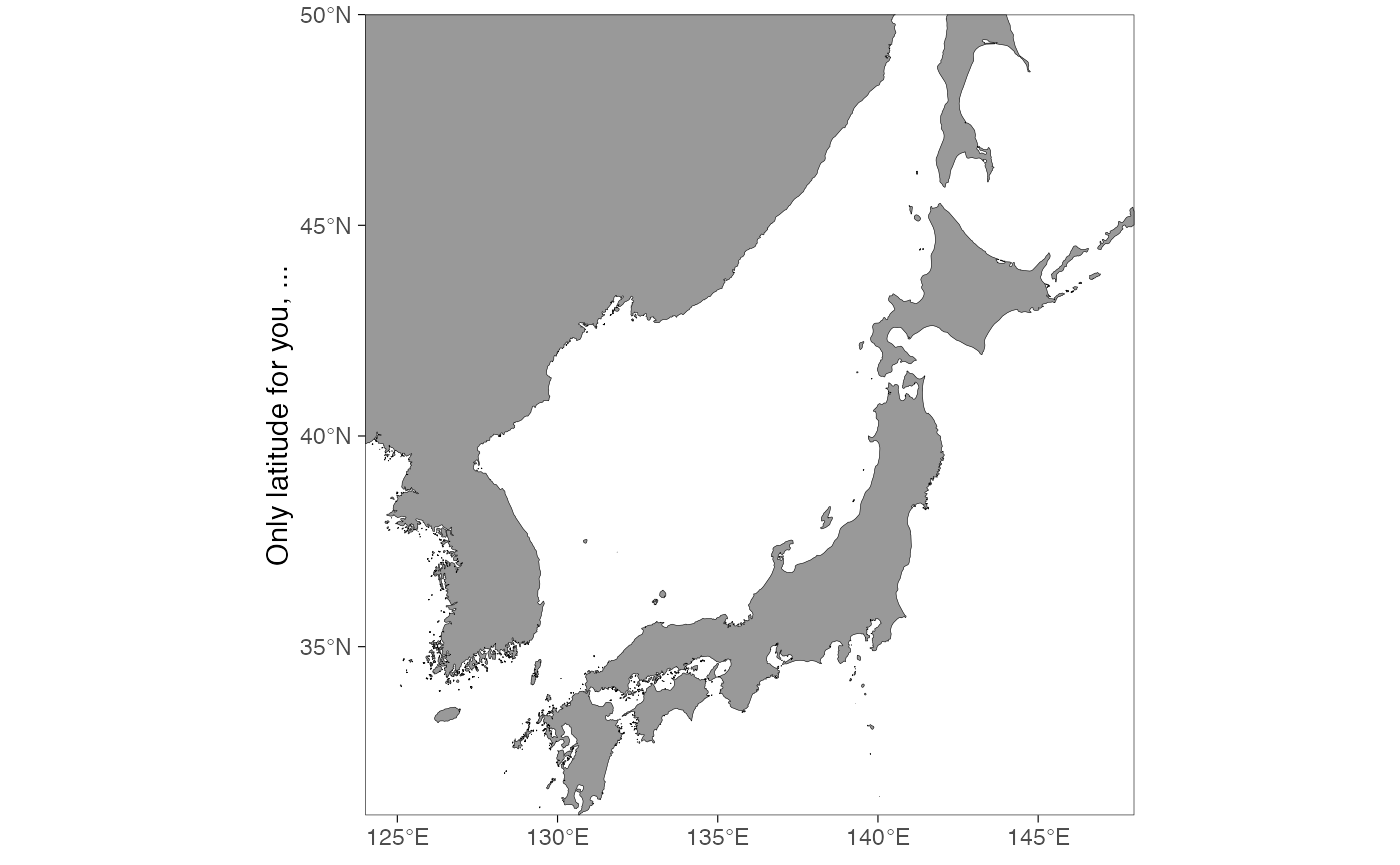
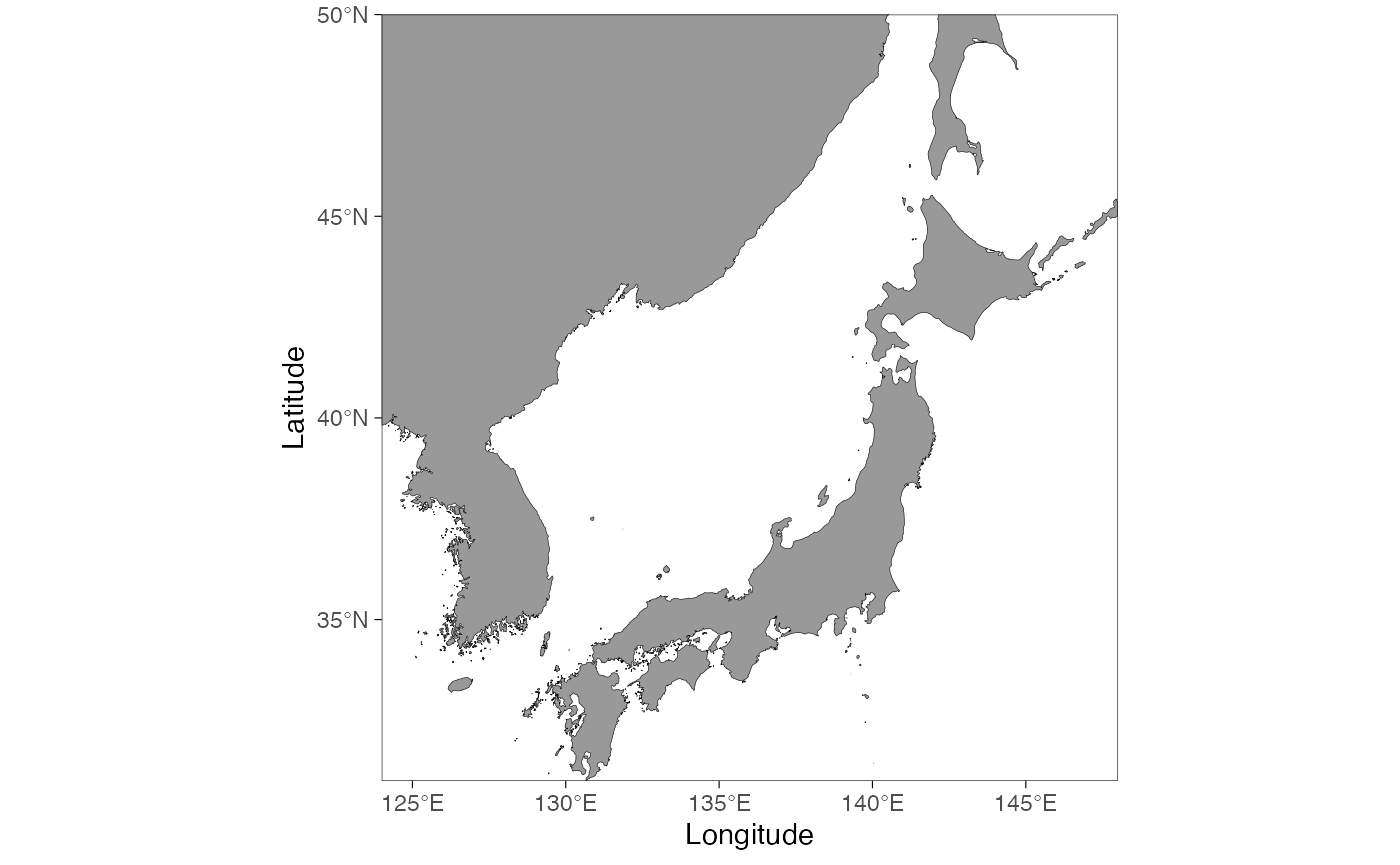
Update axis-label examples for the labels-off-by-default behaviour
Maps no longer draw x/y axis titles by default, so the old "Rename axis
labels" / "Remove axis labels" examples were stale.

- basemap() examples: replace them with an "Add axis labels" example
  (`+ labs(y = "Latitude", x = "Longitude")`); keep the last example but
  retitle it "Remove axis text" (it blanks axis text + ticks).
- ggOceanMaps.Rmd: change the Graphical-parameters example from removing
  an already-absent x label to adding both axis titles.
- NEWS: note that axis titles are off by default and how to add them.
- Regenerate man/basemap.Rd and rebuild the site.

diff --git a/docs/reference/shapefile_list.html b/docs/reference/shapefile_list.html
@@ -107,23 +107,23 @@
 <span class="r-out co"><span class="r-pr">#&gt;</span> 4               Svalbard</span>
 <span class="r-out co"><span class="r-pr">#&gt;</span> 5                 Europe</span>
 <span class="r-out co"><span class="r-pr">#&gt;</span>                                                                          land</span>
-<span class="r-out co"><span class="r-pr">#&gt;</span> 1    /var/folders/9j/t7m30trx0s33zy79x20y3wyh0000gn/T//RtmpyzOGbt/arctic_land</span>
-<span class="r-out co"><span class="r-pr">#&gt;</span> 2 /var/folders/9j/t7m30trx0s33zy79x20y3wyh0000gn/T//RtmpyzOGbt/antarctic_land</span>
+<span class="r-out co"><span class="r-pr">#&gt;</span> 1    /var/folders/9j/t7m30trx0s33zy79x20y3wyh0000gn/T//RtmppcDrFF/arctic_land</span>
+<span class="r-out co"><span class="r-pr">#&gt;</span> 2 /var/folders/9j/t7m30trx0s33zy79x20y3wyh0000gn/T//RtmppcDrFF/antarctic_land</span>
 <span class="r-out co"><span class="r-pr">#&gt;</span> 3                                                                     dd_land</span>
-<span class="r-out co"><span class="r-pr">#&gt;</span> 4  /var/folders/9j/t7m30trx0s33zy79x20y3wyh0000gn/T//RtmpyzOGbt/svalbard_land</span>
-<span class="r-out co"><span class="r-pr">#&gt;</span> 5    /var/folders/9j/t7m30trx0s33zy79x20y3wyh0000gn/T//RtmpyzOGbt/europe_land</span>
+<span class="r-out co"><span class="r-pr">#&gt;</span> 4  /var/folders/9j/t7m30trx0s33zy79x20y3wyh0000gn/T//RtmppcDrFF/svalbard_land</span>
+<span class="r-out co"><span class="r-pr">#&gt;</span> 5    /var/folders/9j/t7m30trx0s33zy79x20y3wyh0000gn/T//RtmppcDrFF/europe_land</span>
 <span class="r-out co"><span class="r-pr">#&gt;</span>                                                                          glacier</span>
-<span class="r-out co"><span class="r-pr">#&gt;</span> 1    /var/folders/9j/t7m30trx0s33zy79x20y3wyh0000gn/T//RtmpyzOGbt/arctic_glacier</span>
-<span class="r-out co"><span class="r-pr">#&gt;</span> 2 /var/folders/9j/t7m30trx0s33zy79x20y3wyh0000gn/T//RtmpyzOGbt/antarctic_glacier</span>
-<span class="r-out co"><span class="r-pr">#&gt;</span> 3        /var/folders/9j/t7m30trx0s33zy79x20y3wyh0000gn/T//RtmpyzOGbt/dd_glacier</span>
-<span class="r-out co"><span class="r-pr">#&gt;</span> 4  /var/folders/9j/t7m30trx0s33zy79x20y3wyh0000gn/T//RtmpyzOGbt/svalbard_glacier</span>
+<span class="r-out co"><span class="r-pr">#&gt;</span> 1    /var/folders/9j/t7m30trx0s33zy79x20y3wyh0000gn/T//RtmppcDrFF/arctic_glacier</span>
+<span class="r-out co"><span class="r-pr">#&gt;</span> 2 /var/folders/9j/t7m30trx0s33zy79x20y3wyh0000gn/T//RtmppcDrFF/antarctic_glacier</span>
+<span class="r-out co"><span class="r-pr">#&gt;</span> 3        /var/folders/9j/t7m30trx0s33zy79x20y3wyh0000gn/T//RtmppcDrFF/dd_glacier</span>
+<span class="r-out co"><span class="r-pr">#&gt;</span> 4  /var/folders/9j/t7m30trx0s33zy79x20y3wyh0000gn/T//RtmppcDrFF/svalbard_glacier</span>
 <span class="r-out co"><span class="r-pr">#&gt;</span> 5                                                                           &lt;NA&gt;</span>
 <span class="r-out co"><span class="r-pr">#&gt;</span>                                                                                                                                                                bathy</span>
-<span class="r-out co"><span class="r-pr">#&gt;</span> 1    dd_rbathy|/var/folders/9j/t7m30trx0s33zy79x20y3wyh0000gn/T//RtmpyzOGbt/dd_rbathy_cont|/var/folders/9j/t7m30trx0s33zy79x20y3wyh0000gn/T//RtmpyzOGbt/arctic_bathy</span>
-<span class="r-out co"><span class="r-pr">#&gt;</span> 2 dd_rbathy|/var/folders/9j/t7m30trx0s33zy79x20y3wyh0000gn/T//RtmpyzOGbt/dd_rbathy_cont|/var/folders/9j/t7m30trx0s33zy79x20y3wyh0000gn/T//RtmpyzOGbt/antarctic_bathy</span>
-<span class="r-out co"><span class="r-pr">#&gt;</span> 3        dd_rbathy|/var/folders/9j/t7m30trx0s33zy79x20y3wyh0000gn/T//RtmpyzOGbt/dd_rbathy_cont|/var/folders/9j/t7m30trx0s33zy79x20y3wyh0000gn/T//RtmpyzOGbt/dd_bathy</span>
-<span class="r-out co"><span class="r-pr">#&gt;</span> 4  dd_rbathy|/var/folders/9j/t7m30trx0s33zy79x20y3wyh0000gn/T//RtmpyzOGbt/dd_rbathy_cont|/var/folders/9j/t7m30trx0s33zy79x20y3wyh0000gn/T//RtmpyzOGbt/svalbard_bathy</span>
-<span class="r-out co"><span class="r-pr">#&gt;</span> 5        dd_rbathy|/var/folders/9j/t7m30trx0s33zy79x20y3wyh0000gn/T//RtmpyzOGbt/dd_rbathy_cont|/var/folders/9j/t7m30trx0s33zy79x20y3wyh0000gn/T//RtmpyzOGbt/dd_bathy</span>
+<span class="r-out co"><span class="r-pr">#&gt;</span> 1    dd_rbathy|/var/folders/9j/t7m30trx0s33zy79x20y3wyh0000gn/T//RtmppcDrFF/dd_rbathy_cont|/var/folders/9j/t7m30trx0s33zy79x20y3wyh0000gn/T//RtmppcDrFF/arctic_bathy</span>
+<span class="r-out co"><span class="r-pr">#&gt;</span> 2 dd_rbathy|/var/folders/9j/t7m30trx0s33zy79x20y3wyh0000gn/T//RtmppcDrFF/dd_rbathy_cont|/var/folders/9j/t7m30trx0s33zy79x20y3wyh0000gn/T//RtmppcDrFF/antarctic_bathy</span>
+<span class="r-out co"><span class="r-pr">#&gt;</span> 3        dd_rbathy|/var/folders/9j/t7m30trx0s33zy79x20y3wyh0000gn/T//RtmppcDrFF/dd_rbathy_cont|/var/folders/9j/t7m30trx0s33zy79x20y3wyh0000gn/T//RtmppcDrFF/dd_bathy</span>
+<span class="r-out co"><span class="r-pr">#&gt;</span> 4  dd_rbathy|/var/folders/9j/t7m30trx0s33zy79x20y3wyh0000gn/T//RtmppcDrFF/dd_rbathy_cont|/var/folders/9j/t7m30trx0s33zy79x20y3wyh0000gn/T//RtmppcDrFF/svalbard_bathy</span>
+<span class="r-out co"><span class="r-pr">#&gt;</span> 5        dd_rbathy|/var/folders/9j/t7m30trx0s33zy79x20y3wyh0000gn/T//RtmppcDrFF/dd_rbathy_cont|/var/folders/9j/t7m30trx0s33zy79x20y3wyh0000gn/T//RtmppcDrFF/dd_bathy</span>
 <span class="r-out co"><span class="r-pr">#&gt;</span>     crs                                      limits</span>
 <span class="r-out co"><span class="r-pr">#&gt;</span> 1  3995                                       c(30)</span>
 <span class="r-out co"><span class="r-pr">#&gt;</span> 2  3031                                      c(-35)</span>
@@ -141,18 +141,18 @@
 <span class="r-out co"><span class="r-pr">#&gt;</span> [1] "ArcticStereographic"</span>
 <span class="r-out co"><span class="r-pr">#&gt;</span> </span>
 <span class="r-out co"><span class="r-pr">#&gt;</span> $land</span>
-<span class="r-out co"><span class="r-pr">#&gt;</span> [1] "/var/folders/9j/t7m30trx0s33zy79x20y3wyh0000gn/T//RtmpyzOGbt/arctic_land"</span>
+<span class="r-out co"><span class="r-pr">#&gt;</span> [1] "/var/folders/9j/t7m30trx0s33zy79x20y3wyh0000gn/T//RtmppcDrFF/arctic_land"</span>
 <span class="r-out co"><span class="r-pr">#&gt;</span> </span>
 <span class="r-out co"><span class="r-pr">#&gt;</span> $glacier</span>
-<span class="r-out co"><span class="r-pr">#&gt;</span> [1] "/var/folders/9j/t7m30trx0s33zy79x20y3wyh0000gn/T//RtmpyzOGbt/arctic_glacier"</span>
+<span class="r-out co"><span class="r-pr">#&gt;</span> [1] "/var/folders/9j/t7m30trx0s33zy79x20y3wyh0000gn/T//RtmppcDrFF/arctic_glacier"</span>
 <span class="r-out co"><span class="r-pr">#&gt;</span> </span>
 <span class="r-out co"><span class="r-pr">#&gt;</span> $bathy</span>
 <span class="r-out co"><span class="r-pr">#&gt;</span>                                                                 raster_binned </span>
 <span class="r-out co"><span class="r-pr">#&gt;</span>                                                                   "dd_rbathy" </span>
 <span class="r-out co"><span class="r-pr">#&gt;</span>                                                             raster_continuous </span>
-<span class="r-out co"><span class="r-pr">#&gt;</span> "/var/folders/9j/t7m30trx0s33zy79x20y3wyh0000gn/T//RtmpyzOGbt/dd_rbathy_cont" </span>
+<span class="r-out co"><span class="r-pr">#&gt;</span> "/var/folders/9j/t7m30trx0s33zy79x20y3wyh0000gn/T//RtmppcDrFF/dd_rbathy_cont" </span>
 <span class="r-out co"><span class="r-pr">#&gt;</span>                                                                        vector </span>
-<span class="r-out co"><span class="r-pr">#&gt;</span>   "/var/folders/9j/t7m30trx0s33zy79x20y3wyh0000gn/T//RtmpyzOGbt/arctic_bathy" </span>
+<span class="r-out co"><span class="r-pr">#&gt;</span>   "/var/folders/9j/t7m30trx0s33zy79x20y3wyh0000gn/T//RtmppcDrFF/arctic_bathy" </span>
 <span class="r-out co"><span class="r-pr">#&gt;</span> </span>
 <span class="r-out co"><span class="r-pr">#&gt;</span> $crs</span>
 <span class="r-out co"><span class="r-pr">#&gt;</span> [1] 3995</span>

diff --git a/docs/reference/basemap.html b/docs/reference/basemap.html
@@ -323,15 +323,12 @@
 <span class="r-in"><span><span class="fu">basemap</span><span class="op">(</span>limits <span class="op">=</span> <span class="fu"><a href="https://rdrr.io/r/base/c.html" class="external-link">c</a></span><span class="op">(</span><span class="op">-</span><span class="fl">180</span>, <span class="op">-</span><span class="fl">140</span>, <span class="fl">50</span>, <span class="fl">70</span><span class="op">)</span>, grid.col <span class="op">=</span> <span class="cn">NA</span>, rotate <span class="op">=</span> <span class="cn">TRUE</span><span class="op">)</span></span></span>
 <span class="r-plt img"><img src="basemap-9.png" alt="" width="700" height="433"></span>
 <span class="r-in"><span></span></span>
-<span class="r-in"><span><span class="co"># Rename axis labels</span></span></span>
+<span class="r-in"><span><span class="co"># Add axis labels</span></span></span>
 <span class="r-in"><span></span></span>
-<span class="r-in"><span><span class="fu">basemap</span><span class="op">(</span>limits <span class="op">=</span> <span class="fu"><a href="https://rdrr.io/r/base/c.html" class="external-link">c</a></span><span class="op">(</span><span class="op">-</span><span class="fl">140</span>, <span class="op">-</span><span class="fl">105</span>, <span class="fl">20</span>, <span class="fl">40</span><span class="op">)</span>, bathymetry <span class="op">=</span> <span class="cn">TRUE</span><span class="op">)</span> <span class="op">+</span> <span class="fu"><a href="https://ggplot2.tidyverse.org/reference/labs.html" class="external-link">xlab</a></span><span class="op">(</span><span class="st">"Lat"</span><span class="op">)</span></span></span>
+<span class="r-in"><span><span class="fu">basemap</span><span class="op">(</span>limits <span class="op">=</span> <span class="fu"><a href="https://rdrr.io/r/base/c.html" class="external-link">c</a></span><span class="op">(</span><span class="op">-</span><span class="fl">140</span>, <span class="op">-</span><span class="fl">105</span>, <span class="fl">20</span>, <span class="fl">40</span><span class="op">)</span>, bathymetry <span class="op">=</span> <span class="cn">TRUE</span><span class="op">)</span> <span class="op">+</span> <span class="fu"><a href="https://ggplot2.tidyverse.org/reference/labs.html" class="external-link">labs</a></span><span class="op">(</span>y <span class="op">=</span> <span class="st">"Latitude"</span>, x <span class="op">=</span> <span class="st">"Longitude"</span><span class="op">)</span></span></span>
 <span class="r-plt img"><img src="basemap-10.png" alt="" width="700" height="433"></span>
 <span class="r-in"><span></span></span>
-<span class="r-in"><span><span class="co"># Remove axis labels</span></span></span>
-<span class="r-in"><span></span></span>
-<span class="r-in"><span><span class="fu">basemap</span><span class="op">(</span>limits <span class="op">=</span> <span class="fu"><a href="https://rdrr.io/r/base/c.html" class="external-link">c</a></span><span class="op">(</span><span class="fl">0</span>, <span class="fl">60</span>, <span class="fl">68</span>, <span class="fl">80</span><span class="op">)</span><span class="op">)</span> <span class="op">+</span> <span class="fu"><a href="https://ggplot2.tidyverse.org/reference/labs.html" class="external-link">labs</a></span><span class="op">(</span>x <span class="op">=</span> <span class="cn">NULL</span>, y <span class="op">=</span> <span class="cn">NULL</span><span class="op">)</span></span></span>
-<span class="r-plt img"><img src="basemap-11.png" alt="" width="700" height="433"></span>
+<span class="r-in"><span><span class="co"># Remove axis text</span></span></span>
 <span class="r-in"><span></span></span>
 <span class="r-in"><span><span class="fu">basemap</span><span class="op">(</span>limits <span class="op">=</span> <span class="fu"><a href="https://rdrr.io/r/base/c.html" class="external-link">c</a></span><span class="op">(</span><span class="fl">0</span>, <span class="fl">60</span>, <span class="fl">68</span>, <span class="fl">80</span><span class="op">)</span>, rotate <span class="op">=</span> <span class="cn">TRUE</span><span class="op">)</span> <span class="op">+</span></span></span>
 <span class="r-in"><span><span class="fu"><a href="https://ggplot2.tidyverse.org/reference/theme.html" class="external-link">theme</a></span><span class="op">(</span>axis.title <span class="op">=</span> <span class="fu"><a href="https://ggplot2.tidyverse.org/reference/element.html" class="external-link">element_blank</a></span><span class="op">(</span><span class="op">)</span>,</span></span>
@@ -339,7 +336,7 @@
 <span class="r-in"><span>      axis.ticks.x <span class="op">=</span> <span class="fu"><a href="https://ggplot2.tidyverse.org/reference/element.html" class="external-link">element_blank</a></span><span class="op">(</span><span class="op">)</span>,</span></span>
 <span class="r-in"><span>      axis.ticks.y <span class="op">=</span> <span class="fu"><a href="https://ggplot2.tidyverse.org/reference/element.html" class="external-link">element_blank</a></span><span class="op">(</span><span class="op">)</span></span></span>
 <span class="r-in"><span>      <span class="op">)</span></span></span>
-<span class="r-plt img"><img src="basemap-12.png" alt="" width="700" height="433"></span>
+<span class="r-plt img"><img src="basemap-11.png" alt="" width="700" height="433"></span>
 <span class="r-in"><span><span class="co"># }</span></span></span>
 </code></pre></div>
     </div>

diff --git a/docs/articles/ggOceanMaps.html b/docs/articles/ggOceanMaps.html
@@ -77,7 +77,7 @@
                         <h4 data-toc-skip class="author">Mikko Vihtakari
 (Institute of Marine Research)</h4>
             
-            <h4 data-toc-skip class="date">19 June, 2026</h4>
+            <h4 data-toc-skip class="date">20 June, 2026</h4>
       
       <small class="dont-index">Source: <a href="https://github.com/MikkoVihtakari/ggOceanMaps/blob/HEAD/vignettes/ggOceanMaps.Rmd" class="external-link"><code>vignettes/ggOceanMaps.Rmd</code></a></small>
       <div class="d-none name"><code>ggOceanMaps.Rmd</code></div>
@@ -567,11 +567,11 @@ done using the <code>*.col</code> (fill), <code>*.border.col</code>
 <span>        grid.size <span class="op">=</span> <span class="fl">0.05</span><span class="op">)</span></span></code></pre></div>
 <p><img src="ggOceanMaps_files/figure-html/unnamed-chunk-25-1.png" class="r-plt" alt="" width="700"></p>
 <p>Graticules (the grid lines) can be removed by setting the
-<code>grid.col</code> to <code>NA</code>. Axis labels can be manipulated
-using standard ggplot code:</p>
+<code>grid.col</code> to <code>NA</code>. Axis titles are omitted by
+default; add them with standard ggplot code:</p>
 <div class="sourceCode" id="cb26"><pre class="downlit sourceCode r">
-<code class="sourceCode R"><span><span class="fu"><a href="../reference/basemap.html">basemap</a></span><span class="op">(</span>limits <span class="op">=</span> <span class="fu"><a href="https://rdrr.io/r/base/c.html" class="external-link">c</a></span><span class="op">(</span><span class="fl">124</span>, <span class="fl">148</span>, <span class="fl">31</span>, <span class="fl">50</span><span class="op">)</span>, grid.col <span class="op">=</span> <span class="cn">NA</span><span class="op">)</span> <span class="op">+</span> </span>
-<span>  <span class="fu"><a href="https://ggplot2.tidyverse.org/reference/labs.html" class="external-link">labs</a></span><span class="op">(</span>x <span class="op">=</span> <span class="cn">NULL</span>, y <span class="op">=</span> <span class="st">"Only latitude for you, ..."</span><span class="op">)</span></span></code></pre></div>
+<code class="sourceCode R"><span><span class="fu"><a href="../reference/basemap.html">basemap</a></span><span class="op">(</span>limits <span class="op">=</span> <span class="fu"><a href="https://rdrr.io/r/base/c.html" class="external-link">c</a></span><span class="op">(</span><span class="fl">124</span>, <span class="fl">148</span>, <span class="fl">31</span>, <span class="fl">50</span><span class="op">)</span>, grid.col <span class="op">=</span> <span class="cn">NA</span><span class="op">)</span> <span class="op">+</span></span>
+<span>  <span class="fu"><a href="https://ggplot2.tidyverse.org/reference/labs.html" class="external-link">labs</a></span><span class="op">(</span>x <span class="op">=</span> <span class="st">"Longitude"</span>, y <span class="op">=</span> <span class="st">"Latitude"</span><span class="op">)</span></span></code></pre></div>
 <p><img src="ggOceanMaps_files/figure-html/unnamed-chunk-26-1.png" class="r-plt" alt="" width="700"></p>
 </div>
 <div class="section level3">

diff --git a/docs/news/index.html b/docs/news/index.html
@@ -63,6 +63,7 @@
 </ul></li>
 <li>
 <code><a href="../reference/vector_land.html">vector_land()</a></code> extracts a land polygon from a <code>bathyRaster</code> produced by <code><a href="../reference/raster_bathymetry.html">raster_bathymetry()</a></code>. Pairs with <code><a href="../reference/vector_bathymetry.html">vector_bathymetry()</a></code> for build-your-own shapefile workflows.</li>
+<li>Maps no longer print <code>x</code> / <code>y</code> axis titles by default (decimal-degree maps used to show “Longitude” / “Latitude”). Add them back when you want them with <code>+ labs(x = "Longitude", y = "Latitude")</code>.</li>
 </ul></div>
 <div class="section level3">
 <h3 id="documentation-and-ai-support-3-0-0">Documentation and AI support<a class="anchor" aria-label="anchor" href="#documentation-and-ai-support-3-0-0"></a></h3>

diff --git a/docs/reference/shapefile_list.md b/docs/reference/shapefile_list.md
@@ -72,23 +72,23 @@ shapefile_list("all")
 #> 4               Svalbard
 #> 5                 Europe
 #>                                                                          land
-#> 1    /var/folders/9j/t7m30trx0s33zy79x20y3wyh0000gn/T//RtmpyzOGbt/arctic_land
-#> 2 /var/folders/9j/t7m30trx0s33zy79x20y3wyh0000gn/T//RtmpyzOGbt/antarctic_land
+#> 1    /var/folders/9j/t7m30trx0s33zy79x20y3wyh0000gn/T//RtmppcDrFF/arctic_land
+#> 2 /var/folders/9j/t7m30trx0s33zy79x20y3wyh0000gn/T//RtmppcDrFF/antarctic_land
 #> 3                                                                     dd_land
-#> 4  /var/folders/9j/t7m30trx0s33zy79x20y3wyh0000gn/T//RtmpyzOGbt/svalbard_land
-#> 5    /var/folders/9j/t7m30trx0s33zy79x20y3wyh0000gn/T//RtmpyzOGbt/europe_land
+#> 4  /var/folders/9j/t7m30trx0s33zy79x20y3wyh0000gn/T//RtmppcDrFF/svalbard_land
+#> 5    /var/folders/9j/t7m30trx0s33zy79x20y3wyh0000gn/T//RtmppcDrFF/europe_land
 #>                                                                          glacier
-#> 1    /var/folders/9j/t7m30trx0s33zy79x20y3wyh0000gn/T//RtmpyzOGbt/arctic_glacier
-#> 2 /var/folders/9j/t7m30trx0s33zy79x20y3wyh0000gn/T//RtmpyzOGbt/antarctic_glacier
-#> 3        /var/folders/9j/t7m30trx0s33zy79x20y3wyh0000gn/T//RtmpyzOGbt/dd_glacier
-#> 4  /var/folders/9j/t7m30trx0s33zy79x20y3wyh0000gn/T//RtmpyzOGbt/svalbard_glacier
+#> 1    /var/folders/9j/t7m30trx0s33zy79x20y3wyh0000gn/T//RtmppcDrFF/arctic_glacier
+#> 2 /var/folders/9j/t7m30trx0s33zy79x20y3wyh0000gn/T//RtmppcDrFF/antarctic_glacier
+#> 3        /var/folders/9j/t7m30trx0s33zy79x20y3wyh0000gn/T//RtmppcDrFF/dd_glacier
+#> 4  /var/folders/9j/t7m30trx0s33zy79x20y3wyh0000gn/T//RtmppcDrFF/svalbard_glacier
 #> 5                                                                           <NA>
 #>                                                                                                                                                                bathy
-#> 1    dd_rbathy|/var/folders/9j/t7m30trx0s33zy79x20y3wyh0000gn/T//RtmpyzOGbt/dd_rbathy_cont|/var/folders/9j/t7m30trx0s33zy79x20y3wyh0000gn/T//RtmpyzOGbt/arctic_bathy
-#> 2 dd_rbathy|/var/folders/9j/t7m30trx0s33zy79x20y3wyh0000gn/T//RtmpyzOGbt/dd_rbathy_cont|/var/folders/9j/t7m30trx0s33zy79x20y3wyh0000gn/T//RtmpyzOGbt/antarctic_bathy
-#> 3        dd_rbathy|/var/folders/9j/t7m30trx0s33zy79x20y3wyh0000gn/T//RtmpyzOGbt/dd_rbathy_cont|/var/folders/9j/t7m30trx0s33zy79x20y3wyh0000gn/T//RtmpyzOGbt/dd_bathy
-#> 4  dd_rbathy|/var/folders/9j/t7m30trx0s33zy79x20y3wyh0000gn/T//RtmpyzOGbt/dd_rbathy_cont|/var/folders/9j/t7m30trx0s33zy79x20y3wyh0000gn/T//RtmpyzOGbt/svalbard_bathy
-#> 5        dd_rbathy|/var/folders/9j/t7m30trx0s33zy79x20y3wyh0000gn/T//RtmpyzOGbt/dd_rbathy_cont|/var/folders/9j/t7m30trx0s33zy79x20y3wyh0000gn/T//RtmpyzOGbt/dd_bathy
+#> 1    dd_rbathy|/var/folders/9j/t7m30trx0s33zy79x20y3wyh0000gn/T//RtmppcDrFF/dd_rbathy_cont|/var/folders/9j/t7m30trx0s33zy79x20y3wyh0000gn/T//RtmppcDrFF/arctic_bathy
+#> 2 dd_rbathy|/var/folders/9j/t7m30trx0s33zy79x20y3wyh0000gn/T//RtmppcDrFF/dd_rbathy_cont|/var/folders/9j/t7m30trx0s33zy79x20y3wyh0000gn/T//RtmppcDrFF/antarctic_bathy
+#> 3        dd_rbathy|/var/folders/9j/t7m30trx0s33zy79x20y3wyh0000gn/T//RtmppcDrFF/dd_rbathy_cont|/var/folders/9j/t7m30trx0s33zy79x20y3wyh0000gn/T//RtmppcDrFF/dd_bathy
+#> 4  dd_rbathy|/var/folders/9j/t7m30trx0s33zy79x20y3wyh0000gn/T//RtmppcDrFF/dd_rbathy_cont|/var/folders/9j/t7m30trx0s33zy79x20y3wyh0000gn/T//RtmppcDrFF/svalbard_bathy
+#> 5        dd_rbathy|/var/folders/9j/t7m30trx0s33zy79x20y3wyh0000gn/T//RtmppcDrFF/dd_rbathy_cont|/var/folders/9j/t7m30trx0s33zy79x20y3wyh0000gn/T//RtmppcDrFF/dd_bathy
 #>     crs                                      limits
 #> 1  3995                                       c(30)
 #> 2  3031                                      c(-35)
@@ -106,18 +106,18 @@ shapefile_list("Arctic") # partial matching
 #> [1] "ArcticStereographic"
 #> 
 #> $land
-#> [1] "/var/folders/9j/t7m30trx0s33zy79x20y3wyh0000gn/T//RtmpyzOGbt/arctic_land"
+#> [1] "/var/folders/9j/t7m30trx0s33zy79x20y3wyh0000gn/T//RtmppcDrFF/arctic_land"
 #> 
 #> $glacier
-#> [1] "/var/folders/9j/t7m30trx0s33zy79x20y3wyh0000gn/T//RtmpyzOGbt/arctic_glacier"
+#> [1] "/var/folders/9j/t7m30trx0s33zy79x20y3wyh0000gn/T//RtmppcDrFF/arctic_glacier"
 #> 
 #> $bathy
 #>                                                                 raster_binned 
 #>                                                                   "dd_rbathy" 
 #>                                                             raster_continuous 
-#> "/var/folders/9j/t7m30trx0s33zy79x20y3wyh0000gn/T//RtmpyzOGbt/dd_rbathy_cont" 
+#> "/var/folders/9j/t7m30trx0s33zy79x20y3wyh0000gn/T//RtmppcDrFF/dd_rbathy_cont" 
 #>                                                                        vector 
-#>   "/var/folders/9j/t7m30trx0s33zy79x20y3wyh0000gn/T//RtmpyzOGbt/arctic_bathy" 
+#>   "/var/folders/9j/t7m30trx0s33zy79x20y3wyh0000gn/T//RtmppcDrFF/arctic_bathy" 
 #> 
 #> $crs
 #> [1] 3995

diff --git a/docs/reference/basemap.md b/docs/reference/basemap.md
@@ -463,15 +463,12 @@ basemap("BarentsSea", bathymetry = TRUE)
 basemap(limits = c(-180, -140, 50, 70), grid.col = NA, rotate = TRUE)
 
 
-# Rename axis labels
+# Add axis labels
 
-basemap(limits = c(-140, -105, 20, 40), bathymetry = TRUE) + xlab("Lat")
+basemap(limits = c(-140, -105, 20, 40), bathymetry = TRUE) + labs(y = "Latitude", x = "Longitude")
 
 
-# Remove axis labels
-
-basemap(limits = c(0, 60, 68, 80)) + labs(x = NULL, y = NULL)
-
+# Remove axis text
 
 basemap(limits = c(0, 60, 68, 80), rotate = TRUE) +
 theme(axis.title = element_blank(),

diff --git a/docs/articles/ggOceanMaps.md b/docs/articles/ggOceanMaps.md
@@ -557,12 +557,13 @@ basemap(limits = c(-20, 30, 55, 70), glaciers = TRUE,
 ![](ggOceanMaps_files/figure-html/unnamed-chunk-25-1.png)
 
 Graticules (the grid lines) can be removed by setting the `grid.col` to
-`NA`. Axis labels can be manipulated using standard ggplot code:
+`NA`. Axis titles are omitted by default; add them with standard ggplot
+code:
 
 ``` r
 
-basemap(limits = c(124, 148, 31, 50), grid.col = NA) + 
-  labs(x = NULL, y = "Only latitude for you, ...")
+basemap(limits = c(124, 148, 31, 50), grid.col = NA) +
+  labs(x = "Longitude", y = "Latitude")
 ```
 
 ![](ggOceanMaps_files/figure-html/unnamed-chunk-26-1.png)

diff --git a/NEWS.md b/NEWS.md
@@ -18,6 +18,9 @@ attempts to help AI agents better support their users, and is itself developed a
 * `vector_land()` extracts a land polygon from a `bathyRaster` produced by
   `raster_bathymetry()`. Pairs with `vector_bathymetry()` for build-your-own
   shapefile workflows.
+* Maps no longer print `x` / `y` axis titles by default (decimal-degree maps
+  used to show "Longitude" / "Latitude"). Add them back when you want them with
+  `+ labs(x = "Longitude", y = "Latitude")`.
 
 ## Documentation and AI support
 

diff --git a/docs/news/index.md b/docs/news/index.md
@@ -32,6 +32,9 @@ suite, and an overhauled documentation site.
   Pairs with
   [`vector_bathymetry()`](https://mikkovihtakari.github.io/ggOceanMaps/reference/vector_bathymetry.md)
   for build-your-own shapefile workflows.
+- Maps no longer print `x` / `y` axis titles by default (decimal-degree
+  maps used to show “Longitude” / “Latitude”). Add them back when you
+  want them with `+ labs(x = "Longitude", y = "Latitude")`.
 
 ### Documentation and AI support
 